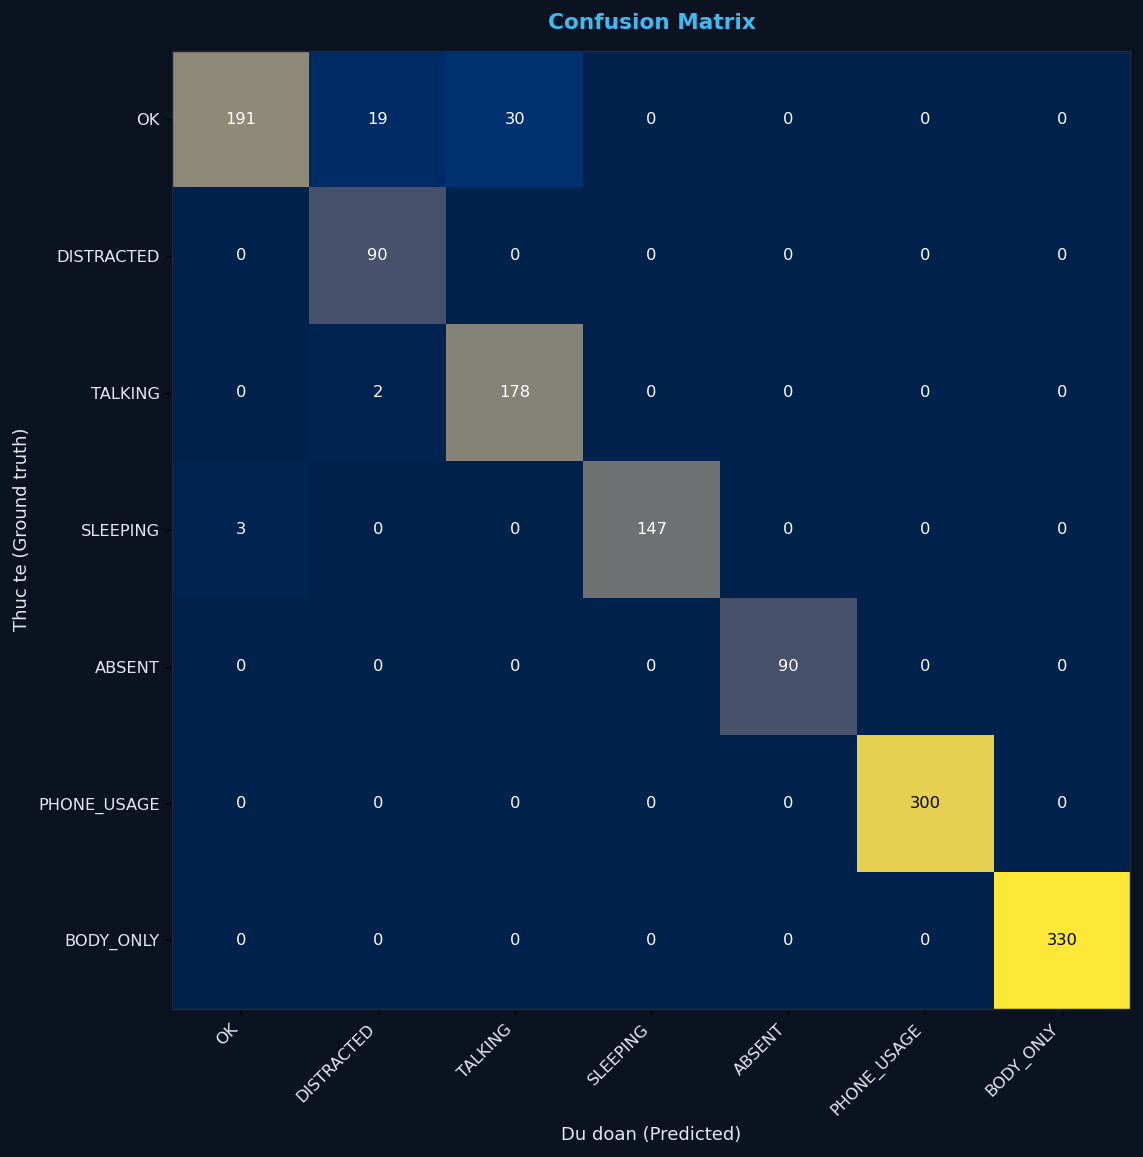
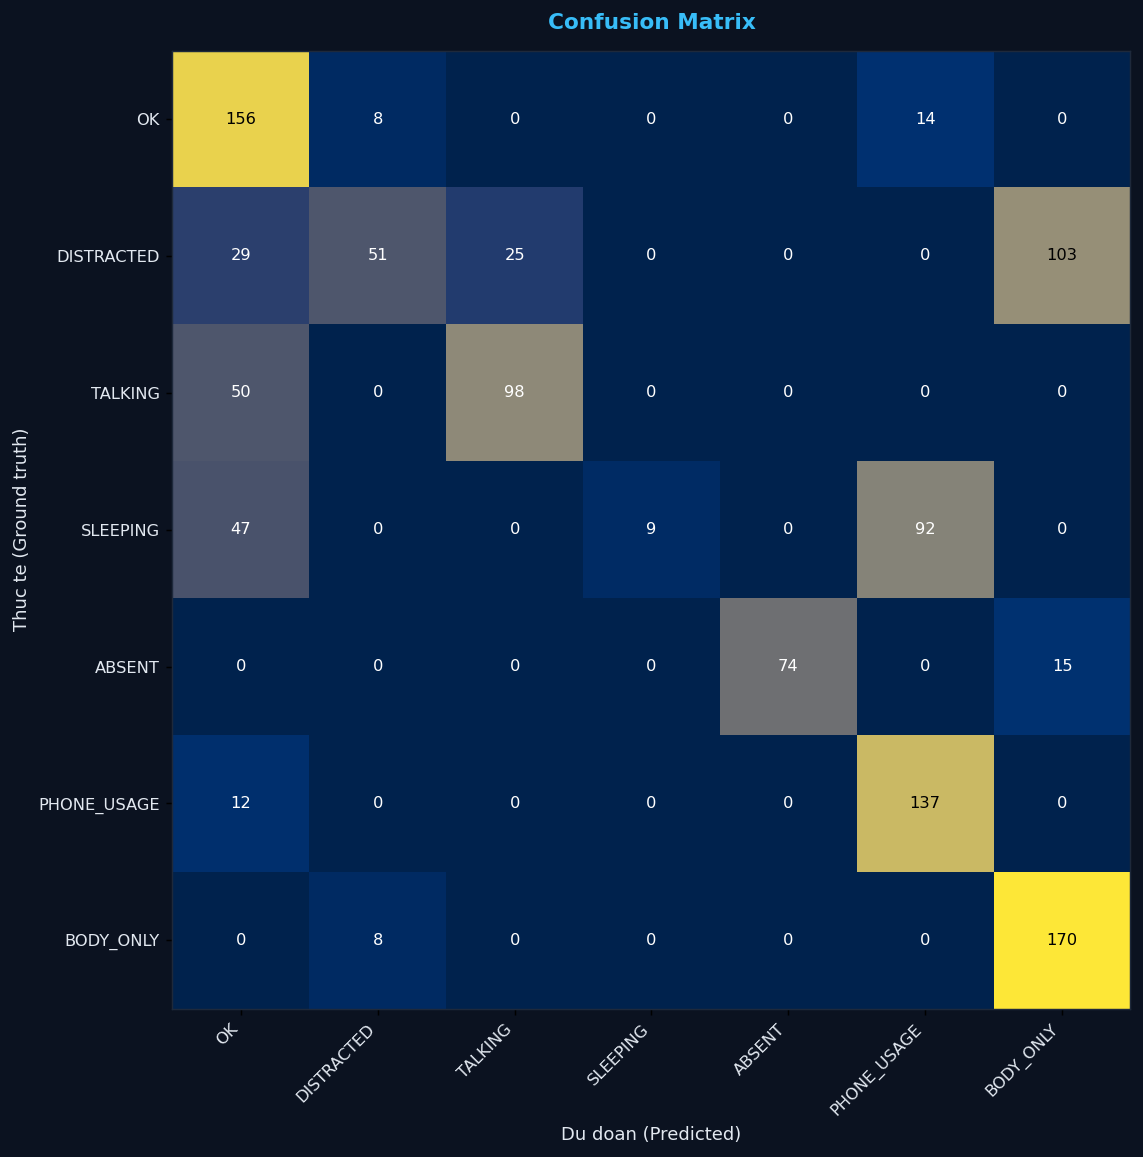
hello

diff --git a/AI-PROJECT/analysis_statistics/session_report.html b/AI-PROJECT/analysis_statistics/session_report.html
@@ -104,11 +104,11 @@
 <div class="wrap">
   <span class="badge">&#128274; Privacy-First &middot; Khong luu anh khuon mat</span>
   <h1>Bao cao phien giam sat lop hoc</h1>
-  <p class="sub">Nguon du lieu: WIN_20260608_21_01_40_Pro_details.csv &middot; Tao luc 08/06/2026 22:07</p>
+  <p class="sub">Nguon du lieu: session_20260609_101159_details.csv &middot; Tao luc 09/06/2026 10:11</p>
 
   <div class="meta">
     <div><b>1</b><span>Sinh vien duoc theo doi</span></div>
-    <div><b>71s</b><span>Thoi luong phan tich</span></div>
+    <div><b>46s</b><span>Thoi luong phan tich</span></div>
     <div><b>0</b><span>Anh khuon mat luu tru</span></div>
   </div>
 
@@ -116,7 +116,7 @@
     <h2>Heatmap chu y ca lop theo thoi gian</h2>
     <div class="legend"><span class="lg"><i style="background:#22c55e"></i>Tap trung</span><span class="lg"><i style="background:#f59e0b"></i>Mat tap trung</span><span class="lg"><i style="background:#a855f7"></i>Noi chuyen</span><span class="lg"><i style="background:#ef4444"></i>Dung dien thoai</span><span class="lg"><i style="background:#3b82f6"></i>Ngu gat</span><span class="lg"><i style="background:#1e293b"></i>Vang mat</span><span class="lg"><i style="background:#94a3b8"></i>Khong ro mat</span></div>
     <div class="hm">
-      <div class="hm-row"><div class="hm-label">Student_1<span class="hm-score">0</span></div><div class="hm-track"><div class="cell" style="background:#22c55e" title="Student_1 | 0.6s | Tap trung"></div><div class="cell" style="background:#22c55e" title="Student_1 | 1.8s | Tap trung"></div><div class="cell" style="background:#22c55e" title="Student_1 | 3.0s | Tap trung"></div><div class="cell" style="background:#22c55e" title="Student_1 | 4.2s | Tap trung"></div><div class="cell" style="background:#f59e0b" title="Student_1 | 5.4s | Mat tap trung"></div><div class="cell" style="background:#f59e0b" title="Student_1 | 6.6s | Mat tap trung"></div><div class="cell" style="background:#f59e0b" title="Student_1 | 7.8s | Mat tap trung"></div><div class="cell" style="background:#f59e0b" title="Student_1 | 9.0s | Mat tap trung"></div><div class="cell" style="background:#22c55e" title="Student_1 | 10.2s | Tap trung"></div><div class="cell" style="background:#22c55e" title="Student_1 | 11.3s | Tap trung"></div><div class="cell" style="background:#22c55e" title="Student_1 | 12.5s | Tap trung"></div><div class="cell" style="background:#94a3b8" title="Student_1 | 13.7s | Khong ro mat"></div><div class="cell" style="background:#94a3b8" title="Student_1 | 14.9s | Khong ro mat"></div><div class="cell" style="background:#94a3b8" title="Student_1 | 16.1s | Khong ro mat"></div><div class="cell" style="background:#22c55e" title="Student_1 | 17.3s | Tap trung"></div><div class="cell" style="background:#22c55e" title="Student_1 | 18.5s | Tap trung"></div><div class="cell" style="background:#22c55e" title="Student_1 | 19.7s | Tap trung"></div><div class="cell" style="background:#22c55e" title="Student_1 | 20.9s | Tap trung"></div><div class="cell" style="background:#a855f7" title="Student_1 | 22.1s | Noi chuyen"></div><div class="cell" style="background:#a855f7" title="Student_1 | 23.3s | Noi chuyen"></div><div class="cell" style="background:#a855f7" title="Student_1 | 24.5s | Noi chuyen"></div><div class="cell" style="background:#a855f7" title="Student_1 | 25.7s | Noi chuyen"></div><div class="cell" style="background:#a855f7" title="Student_1 | 26.9s | Noi chuyen"></div><div class="cell" style="background:#a855f7" title="Student_1 | 28.1s | Noi chuyen"></div><div class="cell" style="background:#22c55e" title="Student_1 | 29.3s | Tap trung"></div><div class="cell" style="background:#22c55e" title="Student_1 | 30.5s | Tap trung"></div><div class="cell" style="background:#ef4444" title="Student_1 | 31.7s | Dung dien thoai"></div><div class="cell" style="background:#ef4444" title="Student_1 | 32.8s | Dung dien thoai"></div><div class="cell" style="background:#ef4444" title="Student_1 | 34.0s | Dung dien thoai"></div><div class="cell" style="background:#ef4444" title="Student_1 | 35.2s | Dung dien thoai"></div><div class="cell" style="background:#ef4444" title="Student_1 | 36.4s | Dung dien thoai"></div><div class="cell" style="background:#ef4444" title="Student_1 | 37.6s | Dung dien thoai"></div><div class="cell" style="background:#ef4444" title="Student_1 | 38.8s | Dung dien thoai"></div><div class="cell" style="background:#ef4444" title="Student_1 | 40.0s | Dung dien thoai"></div><div class="cell" style="background:#ef4444" title="Student_1 | 41.2s | Dung dien thoai"></div><div class="cell" style="background:#ef4444" title="Student_1 | 42.4s | Dung dien thoai"></div><div class="cell" style="background:#ef4444" title="Student_1 | 43.6s | Dung dien thoai"></div><div class="cell" style="background:#22c55e" title="Student_1 | 44.8s | Tap trung"></div><div class="cell" style="background:#ef4444" title="Student_1 | 46.0s | Dung dien thoai"></div><div class="cell" style="background:#3b82f6" title="Student_1 | 47.2s | Ngu gat"></div><div class="cell" style="background:#3b82f6" title="Student_1 | 48.4s | Ngu gat"></div><div class="cell" style="background:#3b82f6" title="Student_1 | 49.6s | Ngu gat"></div><div class="cell" style="background:#3b82f6" title="Student_1 | 50.8s | Ngu gat"></div><div class="cell" style="background:#3b82f6" title="Student_1 | 52.0s | Ngu gat"></div><div class="cell" style="background:#22c55e" title="Student_1 | 53.2s | Tap trung"></div><div class="cell" style="background:#22c55e" title="Student_1 | 54.3s | Tap trung"></div><div class="cell" style="background:#22c55e" title="Student_1 | 55.5s | Tap trung"></div><div class="cell" style="background:#94a3b8" title="Student_1 | 56.7s | Khong ro mat"></div><div class="cell" style="background:#94a3b8" title="Student_1 | 57.9s | Khong ro mat"></div><div class="cell" style="background:#94a3b8" title="Student_1 | 59.1s | Khong ro mat"></div><div class="cell" style="background:#94a3b8" title="Student_1 | 60.3s | Khong ro mat"></div><div class="cell" style="background:#94a3b8" title="Student_1 | 61.5s | Khong ro mat"></div><div class="cell" style="background:#94a3b8" title="Student_1 | 62.7s | Khong ro mat"></div><div class="cell" style="background:#94a3b8" title="Student_1 | 63.9s | Khong ro mat"></div><div class="cell" style="background:#94a3b8" title="Student_1 | 65.1s | Khong ro mat"></div><div class="cell" style="background:#94a3b8" title="Student_1 | 66.3s | Khong ro mat"></div><div class="cell" style="background:#1e293b" title="Student_1 | 67.5s | Vang mat"></div><div class="cell" style="background:#1e293b" title="Student_1 | 68.7s | Vang mat"></div><div class="cell" style="background:#1e293b" title="Student_1 | 69.9s | Vang mat"></div><div class="cell" style="background:#1e293b" title="Student_1 | 71.1s | Vang mat"></div></div></div>
+      <div class="hm-row"><div class="hm-label">[phone redacted]<span class="hm-score">3</span></div><div class="hm-track"><div class="cell" style="background:#f59e0b" title="[phone redacted] | 1.8s | Mat tap trung"></div><div class="cell" style="background:#22c55e" title="[phone redacted] | 2.5s | Tap trung"></div><div class="cell" style="background:#22c55e" title="[phone redacted] | 3.3s | Tap trung"></div><div class="cell" style="background:#22c55e" title="[phone redacted] | 4.1s | Tap trung"></div><div class="cell" style="background:#ef4444" title="[phone redacted] | 4.8s | Dung dien thoai"></div><div class="cell" style="background:#ef4444" title="[phone redacted] | 5.6s | Dung dien thoai"></div><div class="cell" style="background:#ef4444" title="[phone redacted] | 6.3s | Dung dien thoai"></div><div class="cell" style="background:#ef4444" title="[phone redacted] | 7.1s | Dung dien thoai"></div><div class="cell" style="background:#ef4444" title="[phone redacted] | 7.8s | Dung dien thoai"></div><div class="cell" style="background:#22c55e" title="[phone redacted] | 8.6s | Tap trung"></div><div class="cell" style="background:#ef4444" title="[phone redacted] | 9.3s | Dung dien thoai"></div><div class="cell" style="background:#ef4444" title="[phone redacted] | 10.1s | Dung dien thoai"></div><div class="cell" style="background:#ef4444" title="[phone redacted] | 10.8s | Dung dien thoai"></div><div class="cell" style="background:#ef4444" title="[phone redacted] | 11.6s | Dung dien thoai"></div><div class="cell" style="background:#22c55e" title="[phone redacted] | 12.3s | Tap trung"></div><div class="cell" style="background:#22c55e" title="[phone redacted] | 13.1s | Tap trung"></div><div class="cell" style="background:#94a3b8" title="[phone redacted] | 13.8s | Khong ro mat"></div><div class="cell" style="background:#94a3b8" title="[phone redacted] | 14.6s | Khong ro mat"></div><div class="cell" style="background:#94a3b8" title="[phone redacted] | 15.3s | Khong ro mat"></div><div class="cell" style="background:#94a3b8" title="[phone redacted] | 16.1s | Khong ro mat"></div><div class="cell" style="background:#94a3b8" title="[phone redacted] | 16.8s | Khong ro mat"></div><div class="cell" style="background:#1e293b" title="[phone redacted] | 17.6s | Vang mat"></div><div class="cell" style="background:#1e293b" title="[phone redacted] | 18.3s | Vang mat"></div><div class="cell" style="background:#94a3b8" title="[phone redacted] | 19.1s | Khong ro mat"></div><div class="cell" style="background:#22c55e" title="[phone redacted] | 19.8s | Tap trung"></div><div class="cell" style="background:#22c55e" title="[phone redacted] | 20.6s | Tap trung"></div><div class="cell" style="background:#f59e0b" title="[phone redacted] | 21.3s | Mat tap trung"></div><div class="cell" style="background:#f59e0b" title="[phone redacted] | 22.1s | Mat tap trung"></div><div class="cell" style="background:#22c55e" title="[phone redacted] | 22.8s | Tap trung"></div><div class="cell" style="background:#ef4444" title="[phone redacted] | 23.6s | Dung dien thoai"></div><div class="cell" style="background:#ef4444" title="[phone redacted] | 24.4s | Dung dien thoai"></div><div class="cell" style="background:#22c55e" title="[phone redacted] | 25.1s | Tap trung"></div><div class="cell" style="background:#22c55e" title="[phone redacted] | 25.9s | Tap trung"></div><div class="cell" style="background:#22c55e" title="[phone redacted] | 26.6s | Tap trung"></div><div class="cell" style="background:#22c55e" title="[phone redacted] | 27.4s | Tap trung"></div><div class="cell" style="background:#22c55e" title="[phone redacted] | 28.1s | Tap trung"></div><div class="cell" style="background:#22c55e" title="[phone redacted] | 28.9s | Tap trung"></div><div class="cell" style="background:#3b82f6" title="[phone redacted] | 29.6s | Ngu gat"></div><div class="cell" style="background:#3b82f6" title="[phone redacted] | 30.4s | Ngu gat"></div><div class="cell" style="background:#f59e0b" title="[phone redacted] | 31.1s | Mat tap trung"></div><div class="cell" style="background:#22c55e" title="[phone redacted] | 31.9s | Tap trung"></div><div class="cell" style="background:#22c55e" title="[phone redacted] | 32.6s | Tap trung"></div><div class="cell" style="background:#22c55e" title="[phone redacted] | 33.4s | Tap trung"></div><div class="cell" style="background:#22c55e" title="[phone redacted] | 34.1s | Tap trung"></div><div class="cell" style="background:#22c55e" title="[phone redacted] | 34.9s | Tap trung"></div><div class="cell" style="background:#22c55e" title="[phone redacted] | 35.6s | Tap trung"></div><div class="cell" style="background:#22c55e" title="[phone redacted] | 36.4s | Tap trung"></div><div class="cell" style="background:#3b82f6" title="[phone redacted] | 37.1s | Ngu gat"></div><div class="cell" style="background:#3b82f6" title="[phone redacted] | 37.9s | Ngu gat"></div><div class="cell" style="background:#3b82f6" title="[phone redacted] | 38.6s | Ngu gat"></div><div class="cell" style="background:#22c55e" title="[phone redacted] | 39.4s | Tap trung"></div><div class="cell" style="background:#22c55e" title="[phone redacted] | 40.1s | Tap trung"></div><div class="cell" style="background:#3b82f6" title="[phone redacted] | 40.9s | Ngu gat"></div><div class="cell" style="background:#3b82f6" title="[phone redacted] | 41.6s | Ngu gat"></div><div class="cell" style="background:#22c55e" title="[phone redacted] | 42.4s | Tap trung"></div><div class="cell" style="background:#1e293b" title="[phone redacted] | 43.1s | Vang mat"></div><div class="cell" style="background:#22c55e" title="[phone redacted] | 43.9s | Tap trung"></div><div class="cell" style="background:#22c55e" title="[phone redacted] | 44.6s | Tap trung"></div><div class="cell" style="background:#22c55e" title="[phone redacted] | 45.4s | Tap trung"></div><div class="cell" style="background:#22c55e" title="[phone redacted] | 46.2s | Tap trung"></div></div></div>
     </div>
     <div class="png-wrap"><img src="class_attention_heatmap.png" alt="Heatmap chu y ca lop"></div>
   </section>
@@ -127,17 +127,17 @@
       
               <div class="timeline-card">
                 <div class="timeline-head">
-                  <strong>Student_1</strong>
-                  <span>0/100</span>
+                  <strong>202417191</strong>
+                  <span>3/100</span>
                 </div>
-                <svg viewBox="0 0 620 118" role="img" aria-label="Attention timeline Student_1">
+                <svg viewBox="0 0 620 118" role="img" aria-label="Attention timeline 202417191">
                   <line x1="34" y1="12" x2="34" y2="94" class="axis"/>
                   <line x1="34" y1="94" x2="608" y2="94" class="axis"/>
                   <line x1="34" y1="44.800000000000004" x2="608" y2="44.800000000000004" class="guide"/>
                   <line x1="34" y1="61.199999999999996" x2="608" y2="61.199999999999996" class="guide"/>
                   <text x="4" y="16" class="svg-label">100</text>
                   <text x="9" y="98" class="svg-label">0</text>
-                  <polyline points="34.0,12.0 43.7,12.0 53.5,12.0 63.2,12.0 72.9,12.8 82.6,14.7 92.4,16.6 102.1,18.6 111.8,19.5 121.6,18.7 131.3,18.2 141.0,22.2 150.7,28.0 160.5,33.9 170.2,39.0 179.9,39.1 189.7,38.1 199.4,37.6 209.1,39.8 218.8,42.7 228.6,45.6 238.3,48.6 248.0,51.5 257.8,54.5 267.5,56.7 277.2,56.1 286.9,56.4 296.7,60.1 306.4,64.0 316.1,68.0 325.9,71.8 335.6,75.7 345.3,79.7 355.1,83.6 364.8,87.5 374.5,91.5 384.2,93.9 394.0,93.6 403.7,93.8 413.4,93.8 423.2,94.0 432.9,94.0 442.6,94.0 452.3,94.0 462.1,93.9 471.8,93.1 481.5,92.1 491.3,92.4 501.0,94.0 510.7,94.0 520.4,94.0 530.2,94.0 539.9,94.0 549.6,94.0 559.4,94.0 569.1,94.0 578.8,94.0 588.5,94.0 598.3,94.0 608.0,94.0" class="score-line"/>
+                  <polyline points="34.0,16.0 43.7,18.4 53.5,18.2 63.2,17.6 72.9,17.4 82.6,19.3 92.4,21.8 102.1,24.2 111.8,26.7 121.6,27.5 131.3,28.5 141.0,30.8 150.7,33.3 160.5,35.8 170.2,37.6 179.9,37.3 189.7,38.1 199.4,41.4 209.1,45.1 218.8,48.8 228.6,52.5 238.3,56.2 248.0,59.9 257.8,63.5 267.5,66.7 277.2,67.2 286.9,67.6 296.7,68.6 306.4,68.7 316.1,70.0 325.9,72.4 335.6,73.4 345.3,72.9 355.1,72.3 364.8,72.1 374.5,71.7 384.2,71.3 394.0,72.6 403.7,75.6 413.4,78.6 423.2,79.9 432.9,79.6 442.6,78.9 452.3,78.3 462.1,77.7 471.8,77.1 481.5,76.5 491.3,77.3 501.0,80.1 510.7,83.0 520.4,84.6 530.2,84.5 539.9,84.4 549.6,86.8 559.4,89.1 569.1,91.4 578.8,93.6 588.5,93.4 598.3,92.7 608.0,92.1" class="score-line"/>
                 </svg>
               </div>
     </div>
@@ -149,25 +149,25 @@
       
         <div class="card">
           <div class="card-head">
-            <div class="ring" style="--c:#ef4444;--p:0">
-              <span>0</span>
+            <div class="ring" style="--c:#ef4444;--p:3">
+              <span>3</span>
             </div>
             <div>
-              <h3>Student_1</h3>
-              <p>71.7s &middot; chu y TB 38
-                 &middot; tap trung 26%</p>
+              <h3>202417191</h3>
+              <p>45.1s &middot; chu y TB 41
+                 &middot; tap trung 45%</p>
             </div>
           </div>
-          <div class="bars"><div class="bar"><span>Tap trung</span><div class="bar-track"><div class="bar-fill" style="width:26%;background:#22c55e"></div></div><b>26%</b></div><div class="bar"><span>Khong ro mat</span><div class="bar-track"><div class="bar-fill" style="width:21%;background:#94a3b8"></div></div><b>21%</b></div><div class="bar"><span>Dung dien thoai</span><div class="bar-track"><div class="bar-fill" style="width:19%;background:#ef4444"></div></div><b>19%</b></div><div class="bar"><span>Noi chuyen</span><div class="bar-track"><div class="bar-fill" style="width:11%;background:#a855f7"></div></div><b>11%</b></div><div class="bar"><span>Ngu gat</span><div class="bar-track"><div class="bar-fill" style="width:8%;background:#3b82f6"></div></div><b>8%</b></div><div class="bar"><span>Mat tap trung</span><div class="bar-track"><div class="bar-fill" style="width:7%;background:#f59e0b"></div></div><b>7%</b></div><div class="bar"><span>Vang mat</span><div class="bar-track"><div class="bar-fill" style="width:6%;background:#1e293b"></div></div><b>6%</b></div></div>
+          <div class="bars"><div class="bar"><span>Tap trung</span><div class="bar-track"><div class="bar-fill" style="width:45%;background:#22c55e"></div></div><b>45%</b></div><div class="bar"><span>Dung dien thoai</span><div class="bar-track"><div class="bar-fill" style="width:18%;background:#ef4444"></div></div><b>18%</b></div><div class="bar"><span>Khong ro mat</span><div class="bar-track"><div class="bar-fill" style="width:13%;background:#94a3b8"></div></div><b>13%</b></div><div class="bar"><span>Ngu gat</span><div class="bar-track"><div class="bar-fill" style="width:12%;background:#3b82f6"></div></div><b>12%</b></div><div class="bar"><span>Mat tap trung</span><div class="bar-track"><div class="bar-fill" style="width:8%;background:#f59e0b"></div></div><b>8%</b></div><div class="bar"><span>Vang mat</span><div class="bar-track"><div class="bar-fill" style="width:4%;background:#1e293b"></div></div><b>4%</b></div></div>
           
           <div class="impact">
             <div class="impact-title">
               <span>Dong gop diem</span>
-              <strong class="neg">-219.7</strong>
+              <strong class="neg">-91.9</strong>
             </div>
-            <div class="impact-row"><span>Tap trung</span><b>18.8s</b><b>+1.0/s</b><strong class="pos">+18.8</strong></div><div class="impact-row"><span>Mat tap trung</span><b>5.4s</b><b>-2.0/s</b><strong class="neg">-10.7</strong></div><div class="impact-row"><span>Noi chuyen</span><b>7.9s</b><b>-3.0/s</b><strong class="neg">-23.8</strong></div><div class="impact-row"><span>Dung dien thoai</span><b>13.9s</b><b>-4.0/s</b><strong class="neg">-55.7</strong></div><div class="impact-row"><span>Ngu gat</span><b>6.0s</b><b>-5.0/s</b><strong class="neg">-30.0</strong></div><div class="impact-row"><span>Vang mat</span><b>4.6s</b><b>-6.0/s</b><strong class="neg">-27.6</strong></div><div class="impact-row"><span>Khong ro mat</span><b>15.1s</b><b>-6.0/s</b><strong class="neg">-90.6</strong></div>
+            <div class="impact-row"><span>Tap trung</span><b>20.4s</b><b>+1.0/s</b><strong class="pos">+20.4</strong></div><div class="impact-row"><span>Mat tap trung</span><b>3.6s</b><b>-2.0/s</b><strong class="neg">-7.2</strong></div><div class="impact-row"><span>Dung dien thoai</span><b>8.3s</b><b>-4.0/s</b><strong class="neg">-33.3</strong></div><div class="impact-row"><span>Ngu gat</span><b>5.2s</b><b>-5.0/s</b><strong class="neg">-26.2</strong></div><div class="impact-row"><span>Vang mat</span><b>1.9s</b><b>-6.0/s</b><strong class="neg">-11.3</strong></div><div class="impact-row"><span>Khong ro mat</span><b>5.7s</b><b>-6.0/s</b><strong class="neg">-34.3</strong></div>
           </div>
-          <div class="flags"><span class="flag">Frequent Distraction</span><span class="flag">Frequent Distraction; Progressive Drowsiness; Rapid Attention Drop</span><span class="flag">Frequent Distraction; Rapid Attention Drop</span><span class="flag">Progressive Drowsiness</span><span class="flag">Progressive Drowsiness; Rapid Attention Drop</span><span class="flag">Rapid Attention Drop</span></div><div class="flags"><span class="flag phone">Phat hien dien thoai</span></div>
+          <div class="flags"><span class="flag">Frequent Distraction</span><span class="flag">Frequent Distraction; Rapid Attention Drop</span><span class="flag">Rapid Attention Drop</span></div><div class="flags"><span class="flag phone">Phat hien dien thoai</span></div>
         </div>
     </div>
   </section>